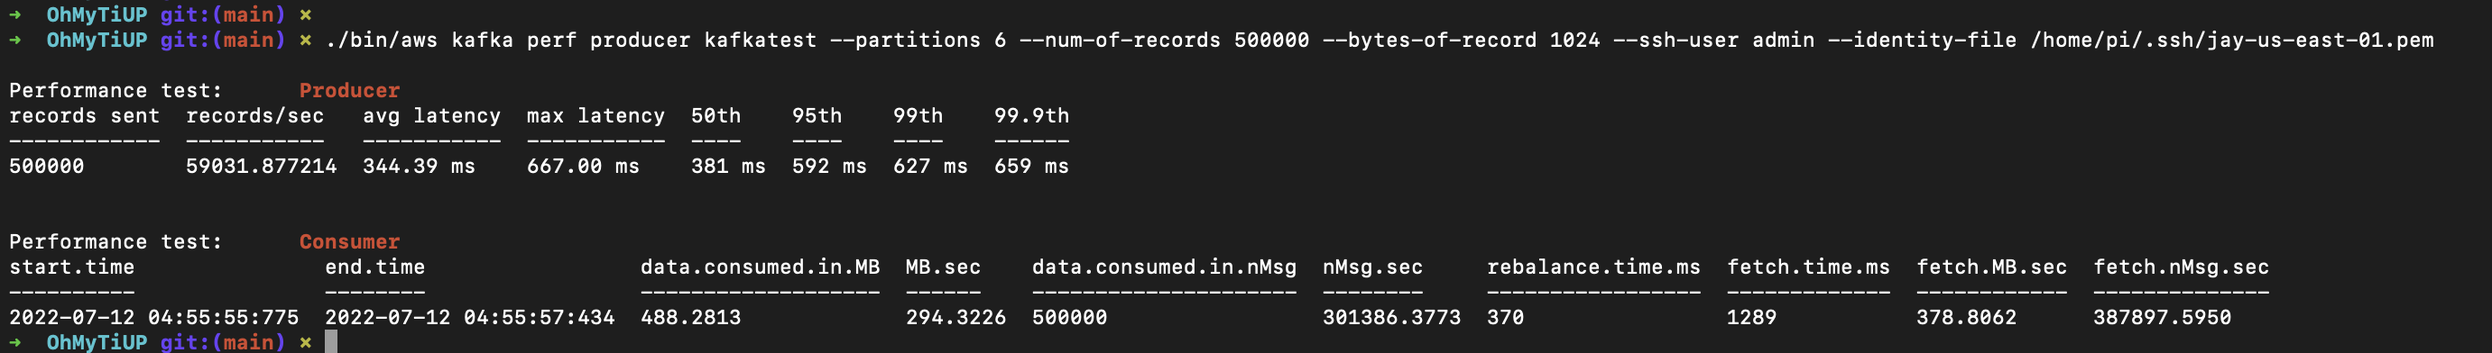
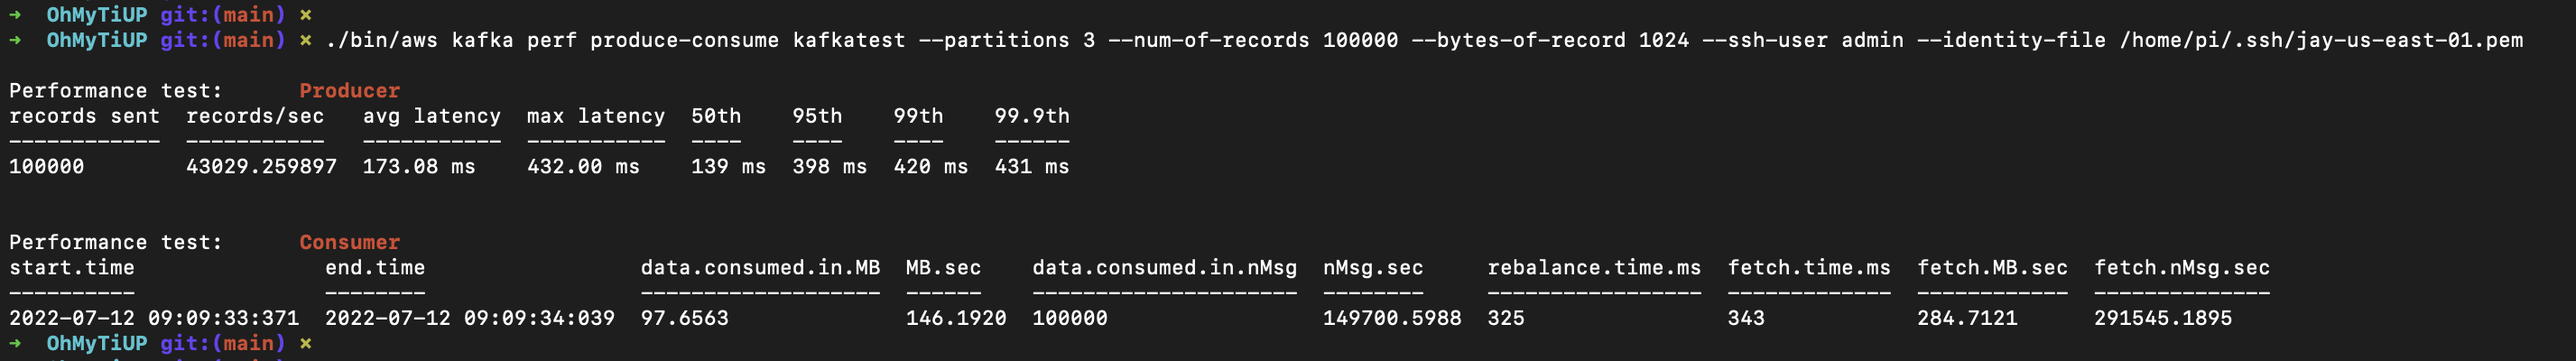
Added end 2 end performance test

diff --git a/pkg/aws/manager/kafka.go b/pkg/aws/manager/kafka.go
@@ -74,6 +74,10 @@ func (m *Manager) KafkaDeploy(
 		base.GlobalOptions.SSHType = sshType
 	}
 
+	if err := m.confirmTopology(name, "v5.1.0", topo, set.NewStringSet()); err != nil {
+		return err
+	}
+
 	// Setup the execution plan
 	var envInitTasks []*task.StepDisplay // tasks which are used to initialize environment
 
@@ -395,13 +399,6 @@ func (m *Manager) KafkaScale(
 	ctx := context.WithValue(context.Background(), "clusterName", name)
 	ctx = context.WithValue(ctx, "clusterType", clusterType)
 
-	// cntEC2Nodes := base.AwsTopoConfigs.PD.Count + base.AwsTopoConfigs.TiDB.Count + base.AwsTopoConfigs.TiKV.Count + base.AwsTopoConfigs.DM.Count + base.AwsTopoConfigs.TiCDC.Count
-	// if cntEC2Nodes > 0 {
-	// 	t2 := task.NewBuilder().CreateTiDBCluster(&sexecutor, "tidb", base.AwsTopoConfigs, &clusterInfo).
-	// 		BuildAsStep(fmt.Sprintf("  - Preparing tidb servers"))
-	// 	envInitTasks = append(envInitTasks, t2)
-	// }
-
 	builder := task.NewBuilder().ParallelStep("+ Initialize target host environments", false, envInitTasks...)
 
 	if afterDeploy != nil {
@@ -441,9 +438,13 @@ func (m *Manager) KafkaScale(
 }
 
 type KafkaPerfOpt struct {
+	// Arguments for consumer/producer and E2E
 	Partitions    int // The number of partitions
 	NumOfRecords  int // The number of records to be tested
 	BytesOfRecord int // The Bytes per record to be tested
+
+	// End 2 End performance test
+	ProducerAcks string
 }
 
 func (m *Manager) PerfKafkaPC(clusterName string, perfOpt KafkaPerfOpt, gOpt operator.Options) error {
@@ -515,6 +516,60 @@ func (m *Manager) PerfKafkaPC(clusterName string, perfOpt KafkaPerfOpt, gOpt ope
 	tui.PrintTable(tableMetrics, true)
 
 	fmt.Printf("\n\nPerformance test:      %s\n", titleFont.Sprint("Consumer"))
+	tui.PrintTable(tableConsumerMetrics, true)
+
+	return nil
+}
+
+func (m *Manager) PerfKafkaE2E(clusterName string, perfOpt KafkaPerfOpt, gOpt operator.Options) error {
+
+	sexecutor, err := executor.New(executor.SSHTypeNone, false, executor.SSHConfig{Host: "127.0.0.1", User: utils.CurrentUser()}, []string{})
+	if err != nil {
+		return err
+	}
+
+	ctx := ctxt.New(context.Background(), 1)
+
+	workstation, err := task.GetWSExecutor(sexecutor, ctx, clusterName, "ohmytiup-kafka", gOpt.SSHUser, gOpt.IdentityFile)
+	if err != nil {
+		return err
+	}
+
+	// Create the partition
+	stdout, _, err := (*workstation).Execute(ctx, fmt.Sprintf("/opt/kafka/perf/kafka.create.topic.sh %d", perfOpt.Partitions), false, 1*time.Hour)
+	if err != nil {
+		return err
+	}
+
+	// Producer performance measurement
+	stdout, _, err = (*workstation).Execute(ctx, fmt.Sprintf("/opt/kafka/perf/kafka.e2e.perf.sh %d %s %d", perfOpt.NumOfRecords, perfOpt.ProducerAcks, perfOpt.BytesOfRecord), false, 2*time.Hour)
+	if err != nil {
+		return err
+	}
+	output := strings.Split(string(stdout), "\n")
+
+	rows := strings.Split(output[len(output)-4], ":")
+
+	var tableConsumerMetrics [][]string
+	var rowHeader, rowMetric []string
+	rowHeader = append(rowHeader, rows[0])
+	rowMetric = append(rowMetric, rows[1])
+
+	rows = strings.Split(output[len(output)-2], ":")
+	rows = strings.Split(rows[1], ",")
+
+	for _, item := range rows {
+		item := strings.Split(item, "=")
+		rowHeader = append(rowHeader, item[0])
+		rowMetric = append(rowMetric, item[1])
+	}
+
+	tableConsumerMetrics = append(tableConsumerMetrics, rowHeader)
+	tableConsumerMetrics = append(tableConsumerMetrics, rowMetric)
+
+	titleFont := color.New(color.FgRed, color.Bold)
+	fmt.Printf("\nPerformance test:      %s\n", titleFont.Sprint("End 2 End"))
+
 	tui.PrintTable(tableConsumerMetrics, true)
 
 	return nil

diff --git a/components/aws/command/kafka.go b/components/aws/command/kafka.go
@@ -14,7 +14,7 @@
 package command
 
 import (
-	"fmt"
+	// "fmt"
 	"os"
 	"path"
 
@@ -168,8 +168,8 @@ func newKafkaScale() *cobra.Command {
 			if data, err := os.ReadFile(topoFile); err == nil {
 				teleTopology = string(data)
 			}
-			fmt.Printf("The command here is %v \n", teleCommand)
-			fmt.Printf("The cluster name is <%s> \n", clusterName)
+			// fmt.Printf("The command here is %v \n", teleCommand)
+			// fmt.Printf("The cluster name is <%s> \n", clusterName)
 
 			return cm.TiDBScale(clusterName, topoFile, opt, postDeployHook, skipConfirm, gOpt)
 		},
@@ -188,6 +188,7 @@ func newKafkaPerf() *cobra.Command {
 
 	cmd.AddCommand(
 		newKafkaPerfPC(),
+		newKafkaPerfE2E(),
 	)
 	return cmd
 }
@@ -199,7 +200,7 @@ func newKafkaPerfPC() *cobra.Command {
 		BytesOfRecord: 1024,
 	}
 	cmd := &cobra.Command{
-		Use:          "producer <cluster-name>",
+		Use:          "produce-consume <cluster-name>",
 		Short:        "producer performance test",
 		Long:         "Performance measurement against kafka cluster",
 		SilenceUsage: true,
@@ -221,6 +222,41 @@ func newKafkaPerfPC() *cobra.Command {
 	cmd.Flags().IntVar(&perfOpt.Partitions, "partitions", 16, "The partition number of the topic to be tested.")
 	cmd.Flags().IntVar(&perfOpt.NumOfRecords, "num-of-records", 100000, "The number of messages to be tested")
 	cmd.Flags().IntVar(&perfOpt.BytesOfRecord, "bytes-of-record", 1024, "Bytes of records to be tested")
+
+	return cmd
+}
+
+func newKafkaPerfE2E() *cobra.Command {
+	perfOpt := manager.KafkaPerfOpt{
+		Partitions:    1,
+		NumOfRecords:  100000,
+		BytesOfRecord: 1024,
+		ProducerAcks:  "1",
+	}
+	cmd := &cobra.Command{
+		Use:          "end2end <cluster-name>",
+		Short:        "end2end performance test",
+		Long:         "Performance measurement against kafka cluster of the end to end",
+		SilenceUsage: true,
+		RunE: func(cmd *cobra.Command, args []string) error {
+			shouldContinue, err := tui.CheckCommandArgsAndMayPrintHelp(cmd, args, 1)
+			if err != nil {
+				return err
+			}
+			if !shouldContinue {
+				return nil
+			}
+
+			clusterName := args[0]
+
+			return cm.PerfKafkaE2E(clusterName, perfOpt, gOpt)
+		},
+	}
+
+	cmd.Flags().IntVar(&perfOpt.Partitions, "partitions", 16, "The partition number of the topic to be tested.")
+	cmd.Flags().IntVar(&perfOpt.NumOfRecords, "num-of-records", 100000, "The number of messages to be tested")
+	cmd.Flags().IntVar(&perfOpt.BytesOfRecord, "bytes-of-record", 1024, "Bytes of records to be tested")
+	cmd.Flags().StringVar(&perfOpt.ProducerAcks, "producer-acks", "1", "The number of acks: 1 or all")
 
 	return cmd
 }

diff --git a/pkg/aws/manager/manager.go b/pkg/aws/manager/manager.go
@@ -152,6 +152,14 @@ func (m *Manager) confirmTopology(name, version string, topo spec.Topology, patc
 			clusterTable = append(clusterTable, []string{"Schema Registry", strconv.Itoa(spec.AwsKafkaTopoConfigs.SchemaRegistry.Count), spec.AwsKafkaTopoConfigs.SchemaRegistry.InstanceType, spec.AwsKafkaTopoConfigs.General.ImageId, spec.AwsKafkaTopoConfigs.General.CIDR, "master"})
 		}
 
+		if spec.AwsKafkaTopoConfigs.RestService.Count > 0 {
+			clusterTable = append(clusterTable, []string{"Rest Service", strconv.Itoa(spec.AwsKafkaTopoConfigs.RestService.Count), spec.AwsKafkaTopoConfigs.RestService.InstanceType, spec.AwsKafkaTopoConfigs.General.ImageId, spec.AwsKafkaTopoConfigs.General.CIDR, "master"})
+		}
+
+		if spec.AwsKafkaTopoConfigs.Connector.Count > 0 {
+			clusterTable = append(clusterTable, []string{"Connector", strconv.Itoa(spec.AwsKafkaTopoConfigs.Connector.Count), spec.AwsKafkaTopoConfigs.Connector.InstanceType, spec.AwsKafkaTopoConfigs.General.ImageId, spec.AwsKafkaTopoConfigs.General.CIDR, "master"})
+		}
+
 		tui.PrintTable(clusterTable, true)
 	}
 
